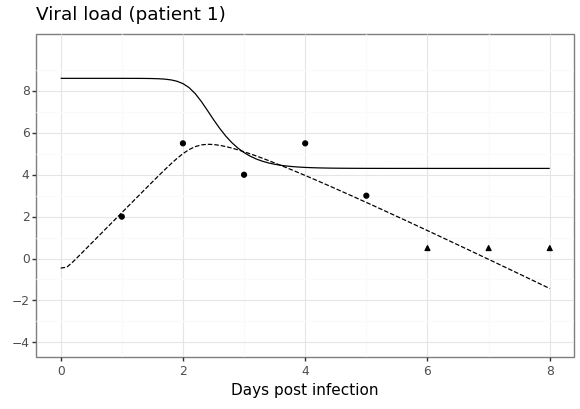
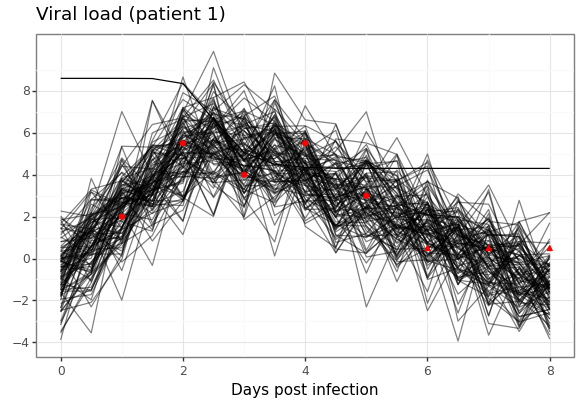
make plots of simulated data as goodness-of-fit check

Changed region(s): [[0.0931, 0.1174, 0.9621, 0.8215]]

diff --git a/particle-filter-example-tiv/src/run-simulation.py b/particle-filter-example-tiv/src/run-simulation.py
@@ -32,11 +32,13 @@ def run_simulation(instance):
     my_obs_tables = pypfilt.simulate_from_model(
         instance, particles = num_reps
     )
+    num_summaries = round(my_obs_tables['V'].size / num_reps)
 
     sim_df = pd.DataFrame({
         'time': my_obs_tables['V']['time'],
         'V': my_obs_tables['V']['value'],
-        'T': my_obs_tables['T']['value']
+        'T': my_obs_tables['T']['value'],
+        'replicate': np.tile(np.arange(num_reps), num_summaries)
     })
     return sim_df
 
@@ -86,22 +88,28 @@ def simulation_plot(sim_df, tcid_df):
         The plot.
     """
     plot_df = pd.melt(sim_df,
-                      id_vars = ['time'],
+                      id_vars = ['time', 'replicate'],
                       value_vars = ['V', 'T'])
-
     plot_title = f"Viral load (patient {tcid_df['patient'].unique()[0]})"
     p9 = (ggplot()
           + geom_line(
-              data = plot_df,
+              data = plot_df[plot_df["variable"] == "T"],
+              mapping = aes(x = "time",
+                            y = "value")
+          )
+          + geom_line(
+              data = plot_df[plot_df["variable"] == "V"],
               mapping = aes(x = "time",
                             y = "value",
-                            group = "variable",
-                            linetype = "variable"))
+                            group = "replicate"),
+              alpha = 0.5)
           + geom_point(
               data = tcid_df,
               mapping = aes(x = "day",
                             y = "log10_tcid",
-                            shape = "is_truncated"))
+                            shape = "is_truncated"),
+              color = "red"
+          )
           + labs(title = plot_title,
                  y = "",
                  x = "Days post infection")
@@ -115,8 +123,7 @@ def simulation_plot(sim_df, tcid_df):
 def main():
     """
     """
-    scenario_file = 'tiv-simulation.toml'
-    insts = list(pypfilt.load_instances(scenario_file))
+    insts = list(pypfilt.load_instances('tiv-simulation.toml'))
 
     for inst in insts:
         patient_num = inst.settings['patient_number']
